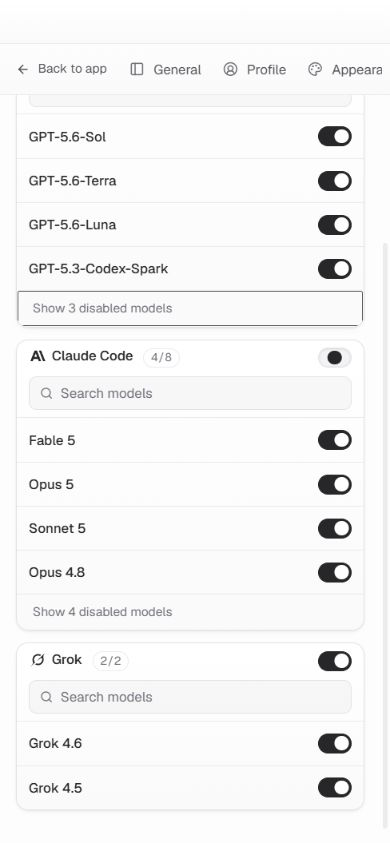
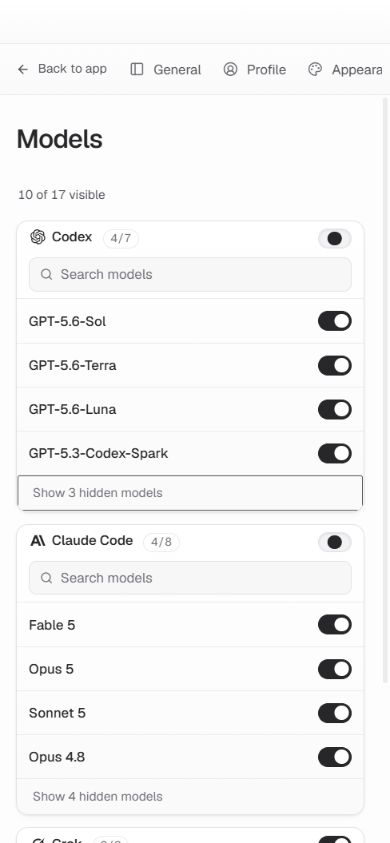
fix(web): clarify hidden model disclosure

diff --git a/apps/web/src/ui/Settings.test.tsx b/apps/web/src/ui/Settings.test.tsx
@@ -647,7 +647,7 @@ describe('model settings', () => {
     expect(sourceHeading?.querySelector('svg')?.getAttribute('width')).toBe('15')
     expect(screen.getByLabelText('1 of 2 models visible').className).toBe('count-badge')
     expect(screen.queryByText('OpenCode Zen · Ling-3.0-tiny Free')).toBeNull()
-    expect(screen.getByRole('button', { name: 'Show 1 disabled model' })).toBeTruthy()
+    expect(screen.getByRole('button', { name: 'Show 1 hidden model' })).toBeTruthy()
     fireEvent.change(search, { target: { value: 'ling' } })
     expect(screen.getByText('OpenCode Zen · Ling-3.0-tiny Free')).toBeTruthy()
     fireEvent.change(search, { target: { value: 'qwen 3.8' } })
@@ -666,9 +666,9 @@ describe('model settings', () => {
 
     fireEvent.click(screen.getByRole('button', { name: 'Clear Search OpenCode models' }))
     expect(screen.queryByText('OpenCode Zen · Ling-3.0-tiny Free')).toBeNull()
-    fireEvent.click(screen.getByRole('button', { name: 'Show 1 disabled model' }))
+    fireEvent.click(screen.getByRole('button', { name: 'Show 1 hidden model' }))
     expect(screen.getByText('OpenCode Zen · Ling-3.0-tiny Free')).toBeTruthy()
-    expect(screen.getByRole('button', { name: 'Hide disabled models' })).toBeTruthy()
+    expect(screen.getByRole('button', { name: 'Hide hidden models' })).toBeTruthy()
   })
 
   it('omits stored custom-model management from beta settings', () => {

diff --git a/docs/feature-inventory.html b/docs/feature-inventory.html
@@ -1456,7 +1456,7 @@
           <li>
             <label
               ><input type="checkbox" /><span
-                >Models: active defaults first, with disabled models behind a compact disclosure
+                >Models: active defaults first, with hidden models behind a compact disclosure
                 <span class="d"
                   >search still reaches the full catalog; first-run defaults wait for complete
                   installed-provider discovery; stored custom entries remain usable while creation

diff --git a/apps/web/src/ui/Settings.tsx b/apps/web/src/ui/Settings.tsx
@@ -966,8 +966,8 @@ function ModelVisibilityGroup(props: {
             onClick={() => setShowHidden((visible) => !visible)}
           >
             {showHidden
-              ? 'Hide disabled models'
-              : `Show ${hiddenCount} disabled model${hiddenCount === 1 ? '' : 's'}`}
+              ? 'Hide hidden models'
+              : `Show ${hiddenCount} hidden model${hiddenCount === 1 ? '' : 's'}`}
           </button>
         ) : null}
       </div>
